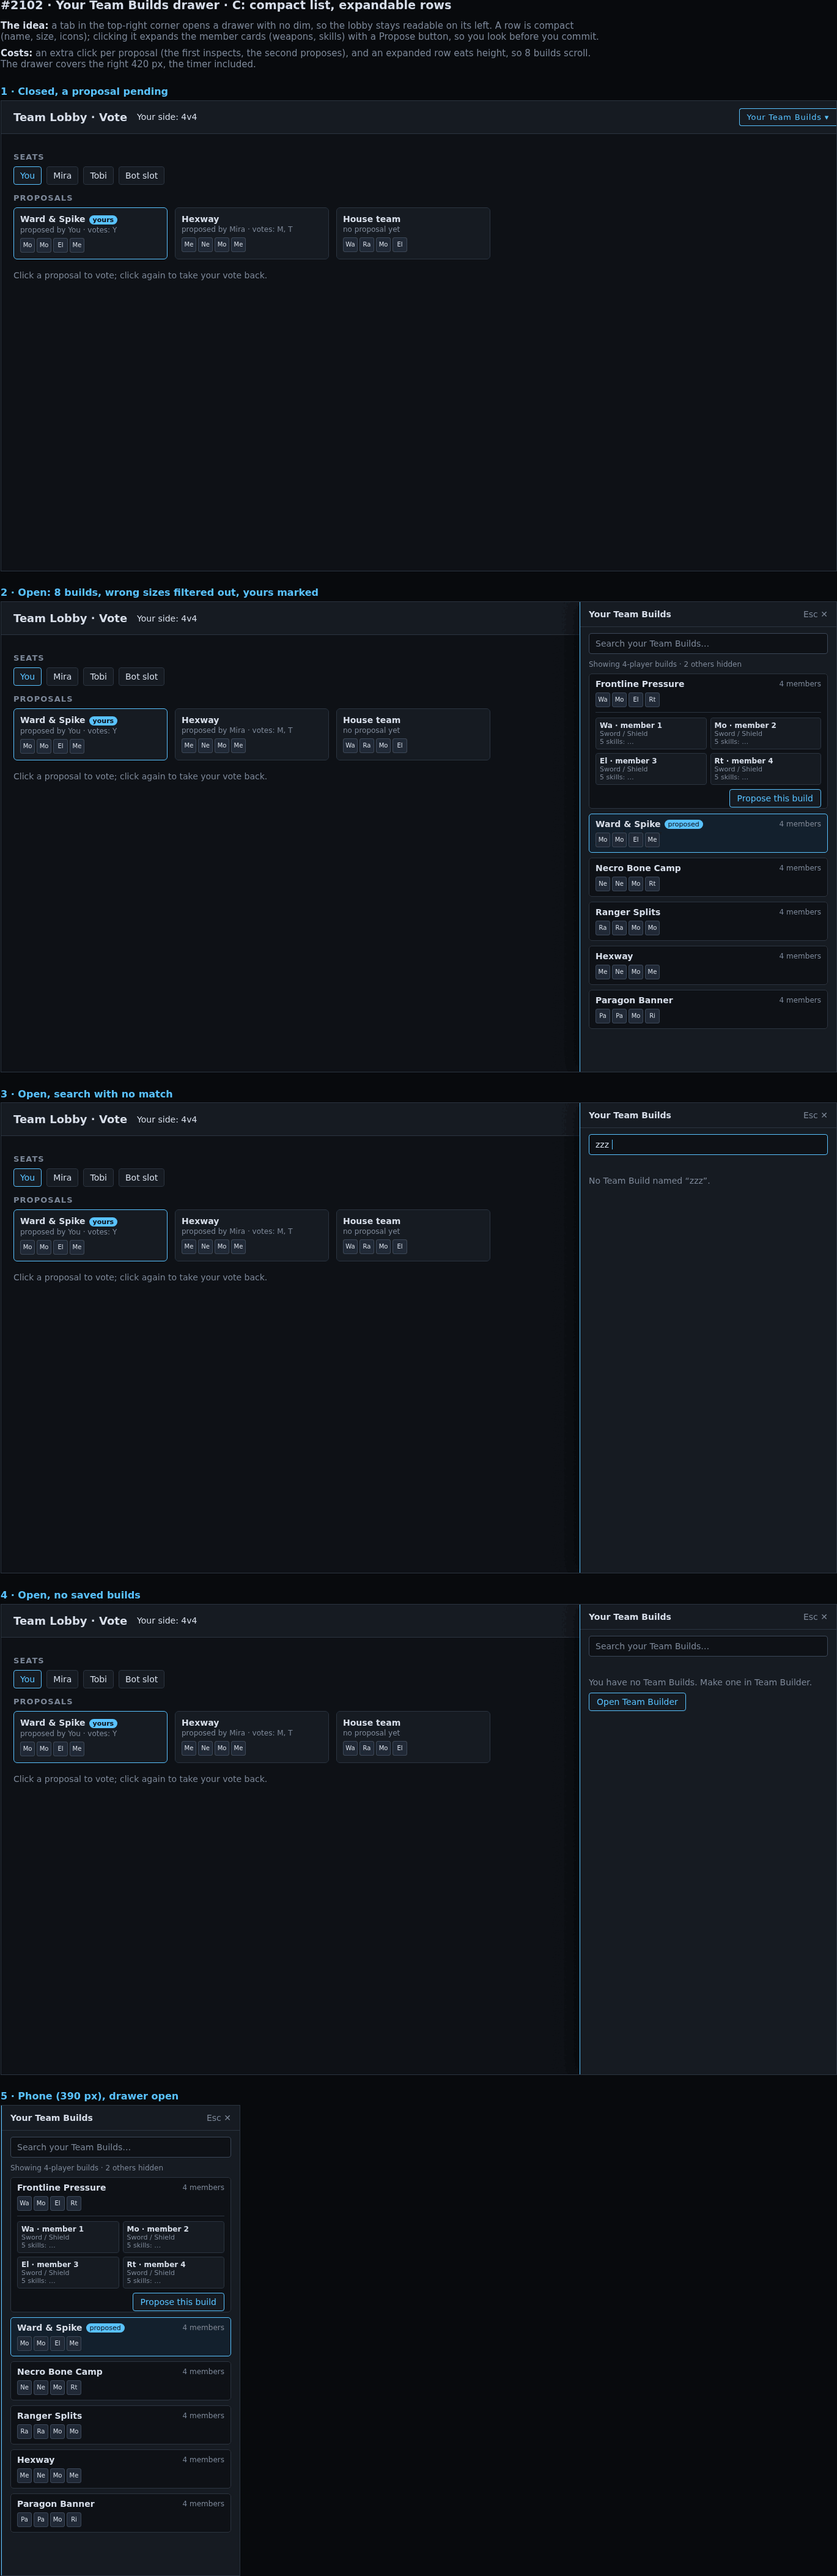
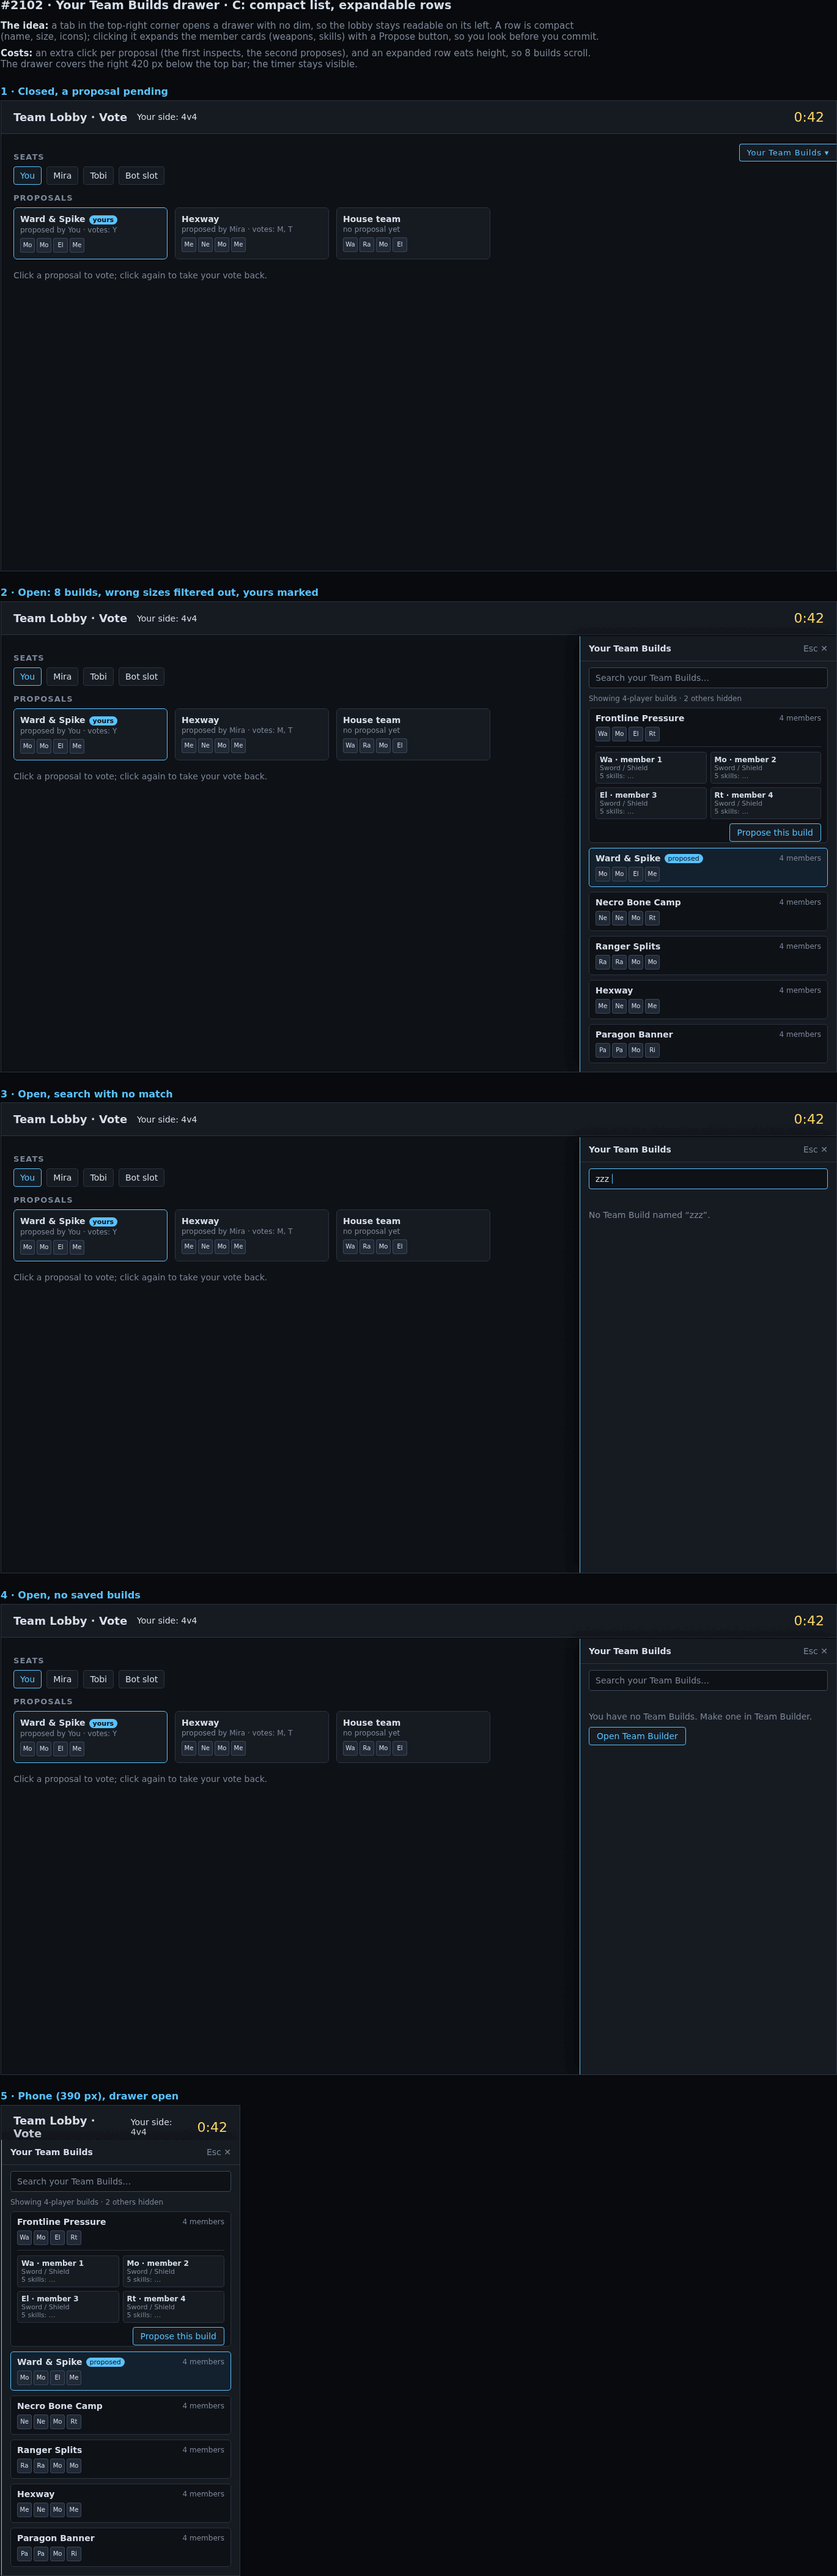
#2102: keep the timer visible in A and C; 800 px previews for the PR

diff --git a/docs/mockups/2102-builds-drawer-c.html b/docs/mockups/2102-builds-drawer-c.html
@@ -272,8 +272,8 @@
 </p>
 <p class="n">
   <b>Costs:</b> an extra click per proposal (the first inspects, the second proposes), and an
-  expanded row eats height, so 8 builds scroll. The drawer covers the right 420 px, the timer
-  included.
+  expanded row eats height, so 8 builds scroll. The drawer covers the right 420 px below the top
+  bar; the timer stays visible.
 </p>
 <script>
   const B = [
@@ -351,9 +351,9 @@
       : '<div class="empty">No Team Build named “' + q + "”.</div>";
   };
   const tab =
-    '<div class="tab" style="right:0;top:12px;padding:6px 12px;border-radius:4px 0 0 4px;border-right:0">Your Team Builds ▾</div>';
+    '<div class="tab" style="right:0;top:70px;padding:6px 12px;border-radius:4px 0 0 4px;border-right:0">Your Team Builds ▾</div>';
   const dr = (inner, w) =>
-    `<div class="dr" style="right:0;width:${w}px;border-left:1px solid #59c2ff;box-shadow:-10px 0 24px rgba(0,0,0,.5)"><div class="dh"><b>Your Team Builds</b><span class="x">Esc ✕</span></div>${inner}</div>`;
+    `<div class="dr" style="top:56px;right:0;width:${w}px;border-left:1px solid #59c2ff;box-shadow:-10px 0 24px rgba(0,0,0,.5)"><div class="dh"><b>Your Team Builds</b><span class="x">Esc ✕</span></div>${inner}</div>`;
   put("d1", lobby() + tab);
   put("d2", lobby() + dr(search("") + lst("", 0), W));
   put("d3", lobby() + dr(search("zzz") + lst("zzz", -1), W));

diff --git a/docs/mockups/2102-builds-drawer-a.html b/docs/mockups/2102-builds-drawer-a.html
@@ -271,9 +271,8 @@
   lobby, press Esc or the tab again, and it closes.
 </p>
 <p class="n">
-  <b>Costs:</b> the drawer covers the right of the lobby, the Proposals' votes and the timer
-  included, while it is open. The vertical tab is the least discoverable of the three, and rows are
-  plain (name, size, profession icons).
+  <b>Costs:</b> the drawer starts below the top bar, so the timer stays visible; it covers the right
+  of the Proposals while open.
 </p>
 <script>
   const B = [
@@ -331,7 +330,7 @@
 <script>
   const W = 380;
   const dr = (inner, w) =>
-    `<div class="dim"></div><div class="dr" style="right:0;width:${w || W}px;border-left:1px solid #59c2ff"><div class="dh"><b>Your Team Builds</b><span class="x">Esc ✕</span></div>${inner}</div>`;
+    `<div class="dim" style="top:56px"></div><div class="dr" style="top:56px;right:0;width:${w || W}px;border-left:1px solid #59c2ff"><div class="dh"><b>Your Team Builds</b><span class="x">Esc ✕</span></div>${inner}</div>`;
   const tabHtml =
     '<div class="tab" style="right:0;top:300px;writing-mode:vertical-rl;padding:16px 8px;border-right:0;border-radius:6px 0 0 6px">Your Team Builds ▸</div>';
   put("d1", lobby() + tabHtml);
